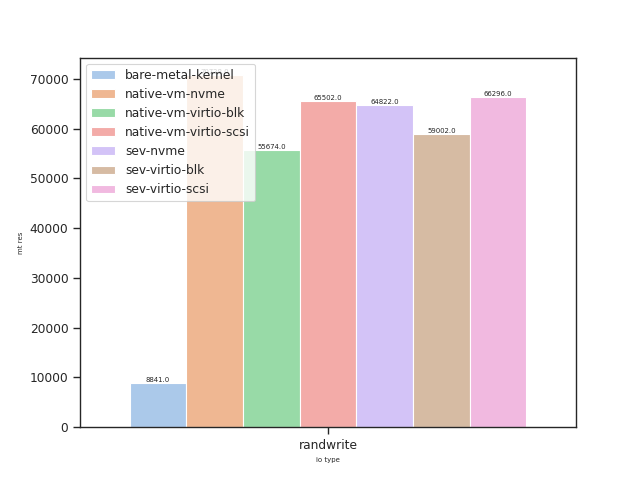
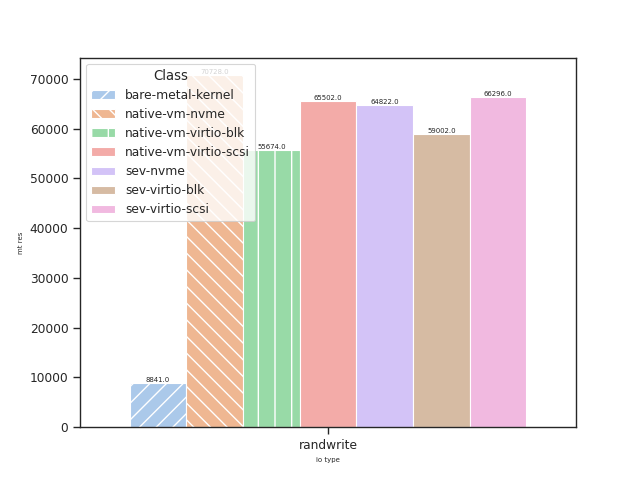
--wip-- [skip ci]

Changed region(s): [[0.125, 0.125, 0.4062, 0.875]]

diff --git a/tools/fio-plotters/src/plot/plotter.py b/tools/fio-plotters/src/plot/plotter.py
@@ -25,6 +25,8 @@ PALETTE = sns.color_palette("pastel")
 WIDTH   = 7 # \textwidth is 7 inch
 HEIGHT  = 1.8
 
+HATCHES = ['//', '\\\\', '|']
+
 
 def legend_without_duplicate_labels(ax):
     handles, labels = ax.get_legend_handles_labels()
@@ -34,6 +36,16 @@ def legend_without_duplicate_labels(ax):
 def add_values_on_bars(ax):
     for container in ax.containers:
         ax.bar_label(container, fmt='%.1f')
+
+
+# https://stackoverflow.com/questions/67416696/how-to-add-the-repeated-hatches-to-each-bar-in-seaborn-barplot
+def apply_hatches(ax):
+    for bars, hatch in zip(ax.containers, HATCHES):
+        # Set a different hatch for each group of bars
+        for bar in bars:
+            bar.set_hatch(hatch)
+    # create the legend again to show the new hatching
+    ax.legend(title='Class')
 
 # mt : iot (grouped), (unique triplet) env, device, mt_res
 # NOTE: this code is a mess, some refactoring wouldn't hurt
@@ -57,12 +69,13 @@ def plot(mt_data_dict, output_dir):
                 .sort_values(by=[SCND_COL_LABEL])\
                 .reset_index(drop=True)
 
-            # TODO URGENT FIXME: avg latency readrand w/ iops bars overlapping
             plot = sns.barplot(x=FIRST_COL_LABEL, y=THIRD_COL_LABEL, hue=SCND_COL_LABEL,
                 data=df, palette=PALETTE, edgecolor = 'w')
             legend_without_duplicate_labels(plot)
             add_values_on_bars(plot)
+            apply_hatches(plot)
             fig = plot.get_figure()
             fig.savefig(f'{output_dir}/{mt}-{iot}-out.png')
             print(f'{output_dir}/{mt}-{iot}-out.png')
             plt.clf()
+
